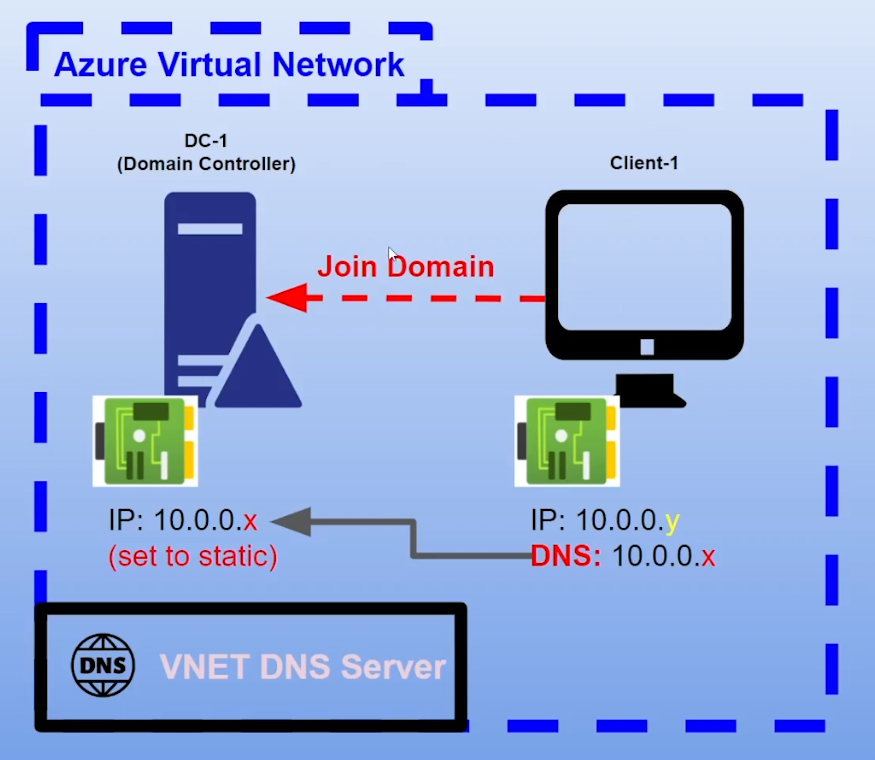
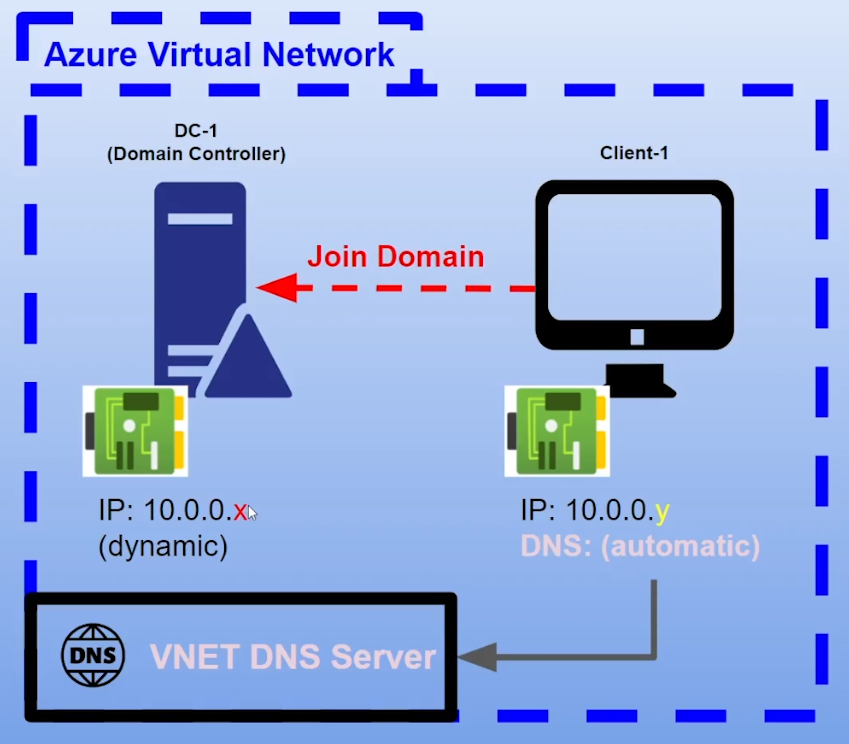
added all steps

diff --git a/README.md b/README.md
@@ -1,26 +1,146 @@
 # On-premises Active Directory and Client PC Deployed in the Cloud (Azure)
 
-<img src="images/ad.jpg" width=46%>
-<img src="images/azure.png" width=41%>
+<img src="images/ad.jpg" width=46%><img src="images/azure.png" width=41%>
 
 ## Intro
 
-This home lab outlines the implementation of 2 Azure virtual machines (on-premises Active Directory and client PC).
+This project outlines the implementation of 2 Azure virtual machines (on-premises Active Directory and client PC).
 
 ## Tech used
 
-**Operating Systems**
+### Operating Systems
 
 - Windows Server 2022
-- Windows 10 (21H2)
+- Windows 10
 
-**Platform and Software**
+### Platform and Software
 
-- Azure (Resource Groups, Virtual Machines, Network Interface, Network Security Group)
+- Azure portal (Resource Groups, Virtual Machines, Network Interface, Network Security Group)
 - Remote Desktop Connection
 - Active Directory Domain Services
 - PowerShell
 
 ## Overview
 
+<img src="images/overview2.png" width=50%>
+
+## Configuration Steps
+###### top
+- [Step 1: Create resources](#step-1-create-resources)
+- [Step 2: Establish connectivity to between Domain Controller and Client](#step-2-establish-connectivity-to-between-domain-controller-and-client)
+- [Step 3: Install Active Directory](#step-3-install-active-directory)
+- [Step 4: Create an administrator and regular account in Active Directory](#step-4-create-an-administrator-and-regular-account-in-active-directory)
+- [Step 5: Join Client to the Domain Controller](#step-5-join-client-to-the-domain-controller)
+- [Step 6: Setup Remote Desktop for non-administrative users to Client](#step-6-setup-remote-desktop-for-non-administrative-users-to-client)
+- [Step 7: Create users in Active Directory using Powershell script](#step-7-create-users-in-active-directory-using-powershell-script)
+- [Bonus Step: How to unlock users' accounts and reset passwords](#bonus-step-how-to-unlock-users-accounts-and-reset-passwords)
+
+### Step 1: Create resources
+
+<img src="images/tenant.png" width=50%>
+
+Create Resource Group
+
+- it's treat as your each department (IT, HR etc.) so that yu can keep track their expenses
+
+Create Azure Virtual Machines and Virtual Network
+
+- Create the ***domain controller*** virtual machine (VM) which is Windows Server 2022 (DC-1).
+- Create the ***client*** VM which is Windows 10 (Client-1).
+- After creation of DC-1, virtual network (VN) is created as well. So let Client-1 select the VN of DC-1 thus ***both VM under the same VN***. 
+- Set up the ***login*** by using username and password of both VMs for remote desktop connection in step 2.
+- Set the NIC private IP address of DC-1 to be ***static***from default setting as shown below. We don't want it to change at all if not the random assignation of DHCP will occur. Later we will set the DNS IP address of Client-1 to use ***DC-1 IP address as DNS server*** instead of VN DNS server in step 5.
 <img src="images/overview.png" width=50%>
+<img src="images/dynamicip.png">
+<img src="images/staticip.png" width=40%>
+
+### Step 2: Establish connectivity to between Domain Controller and Client
+[back to top](#top)
+
+- Login to DC-1 and Client-1 by using ***public IP address*** with credentials (username and password)
+- ***Ping private IP address*** of DC-1 with -t but it seems blocked by DC-1. Next we login to DC-1 and ***enable ICMPv4*** then we ping again.
+<img src="images/dcc1.png">
+<img src="images/dcc2.png">
+<img src="images/dcc3.png">
+
+### Step 3: Install Active Directory
+[back to top](#top)
+
+- Login to DC-1 -> Server Manager -> Add Roles and Features -> tick Active Directory Domain Services -> click ***Promote this server to a domain controller*** -> Add a new forest -> name it mydomain.com -> set DSRM password -> restart -> reconnect -> login with mydomain.com\labuser
+<img src="images/iad1.png">
+<img src="images/iad2.png">
+<img src="images/iad3.png">
+<img src="images/iad4.png">
+
+### Step 4: Create an administrator and regular account in Active Directory
+[back to top](#top)
+
+Create 2 ***new Organisation Unit (OU)***
+
+- Server Manager -> Tools -> Active Directory Users and Computers (ADUC) -> right click mydomain.com -> new -> organisation unit -> name it _ADMIN and _EMPLOYEES
+
+Create ***new employee*** "john_admin" and add to "Domain Admins" Security Group
+
+- Go to _ADMIN -> right click black space -> new -> User -> fill in first name, last name, user login name -> right click created user -> properties -> Member Of -> Add -> type domain admins -> Check Names -> OK -> log off -> reconnect -> login with mydomain.com\john_admin
+<img src="images/cua1.png">
+<img src="images/cua2.png">
+<img src="images/cua3.png">
+
+### Step 5: Join Client to the Domain Controller
+[back to top](#top)
+
+- Client-1 ***cannot find mydomain.com*** in default DNS server due to not connected to private IP address 10.0.0.4 (DC-1) as DNS server that shown in step 1.
+<img src="images/jdc1.png">
+
+- ***Change DNS server*** setting (Client-1) in Azure portal
+<img src="images/jdc2.png">
+<img src="images/jdc3.png">
+
+- Log off -> reconnect -> shortcut (win+r) -> type cmd -> check status
+<img src="images/jdc4.png">
+
+- Shortcut (win+x) / right click start menu icon -> System -> Rename this PC (advanced) -> Computer Name -> Change -> pick Domain -> type mydomain.com -> OK -> enter mydomain.com\john_admin
+<img src="images/jdc5.png">
+
+### Step 6: Setup Remote Desktop for non-administrative users to Client
+[back to top](#top)
+
+Allow "Domain Users" access to remote desktop, ***every user can log in into Client-1*** as normal/non-administrative user
+
+- Shortcut (win+x) / right click start menu icon -> System -> Remote desktop -> Select users that can remotely access this PC -> Add -> type domain users -> Check Names -> OK
+<img src="images/du1.png">
+
+Double check who is in "Domain Users" Security Group in DC-1
+
+- (Server Manager -> Tools -> ADUC) / (Start menu -> Windows Administrative Tools -> ADUC) -> mydomain.com -> Users -> double click Domain Users -> Members 
+<img src="images/du2.png">
+
+
+### Step 7: Create users in Active Directory using Powershell script
+[back to top](#top)
+
+- Login to DC-1 as john_admin
+- Open PowerShell_ise as an administrator
+- Create a new File and paste content of the [script](https://github.com/joshmadakor1/AD_PS/blob/master/Generate-Names-Create-Users.ps1) into it -> F5 / Play button -> ADUC -> _EMPLOYEES -> right click _EMPLOYEES -> refresh
+- Pick one auto-generated user to login to Client-1
+<img src="images/cu1.png">
+<img src="images/cu2.png">
+<img src="images/cu3.png">
+
+### Bonus Step: How to unlock users' accounts and reset passwords
+[back to top](#top)
+- Login user with wrong password few times to make it locked
+<img src="images/ul1.png">
+
+- Right click the user's name -> Reset Password
+<img src="images/ul2.png">
+
+- Right click the user'name -> Properties -> tick Unlock account
+<img src="images/ul3.png">
+ 
+:warning:Last but not least, please don't forget to clean up your Azure resource groups as ***you can incur charges*** that use up your $200 free credits!
+
+## Credits
+[back to top](#top)
+
+- Josh Madakor [link](https://github.com/joshmadakor1)
